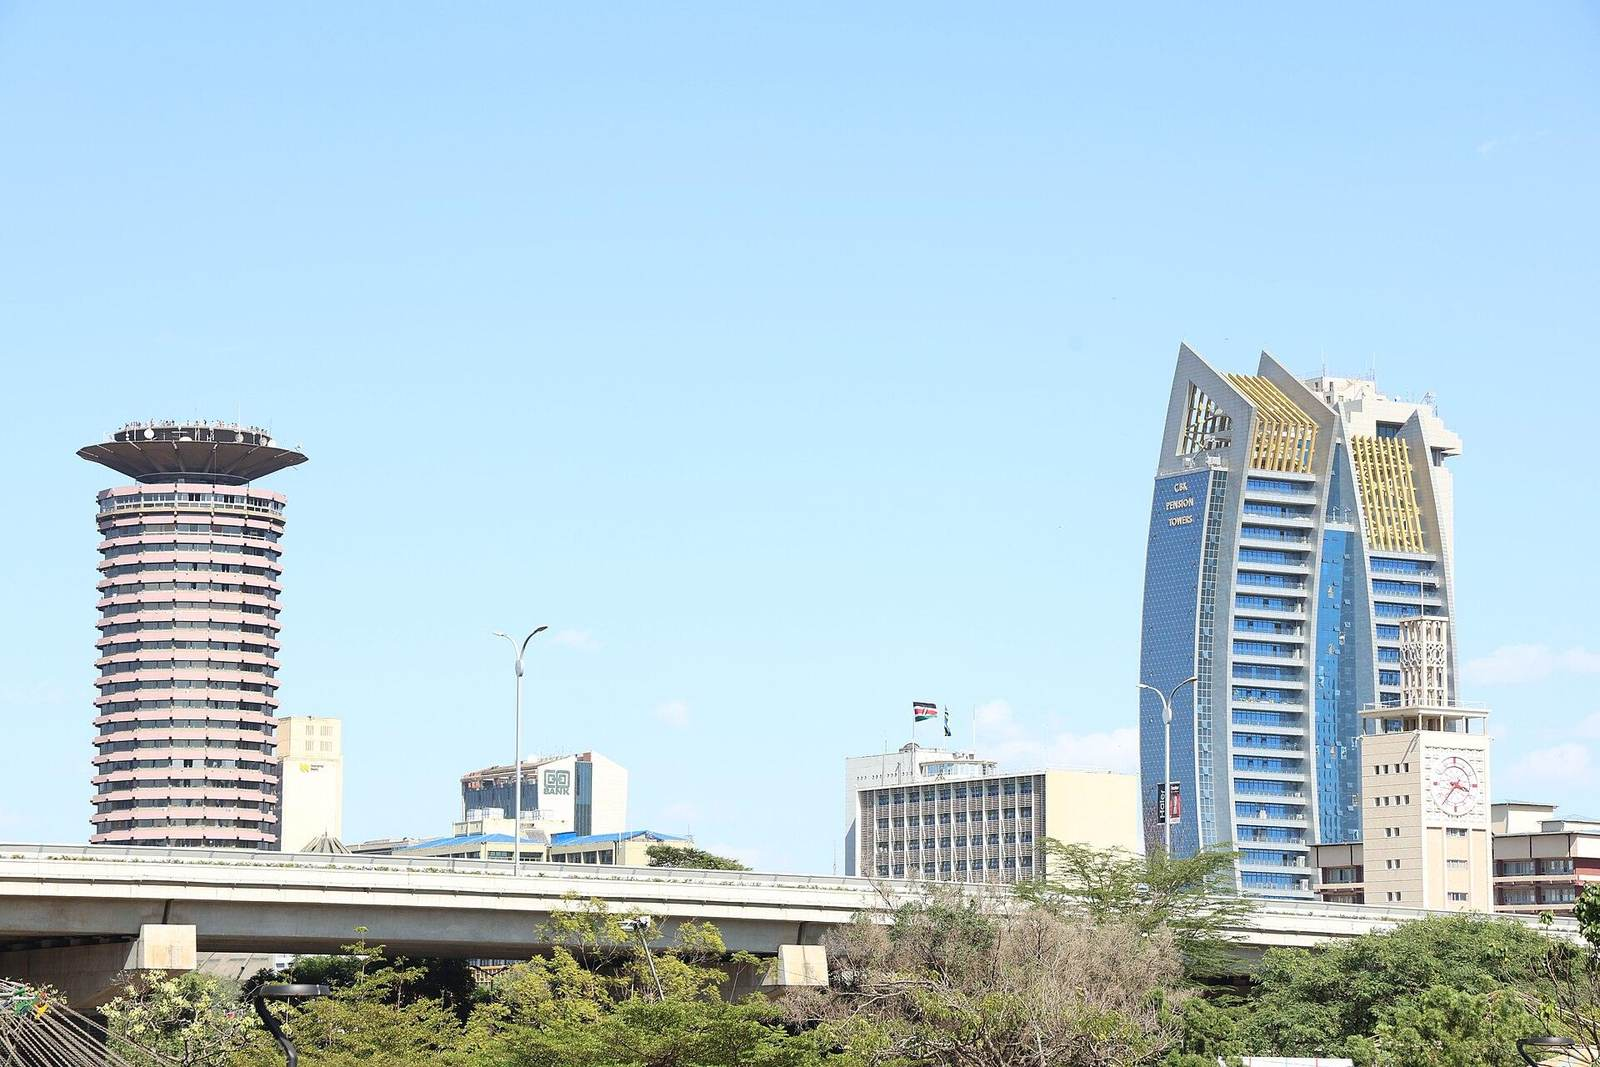
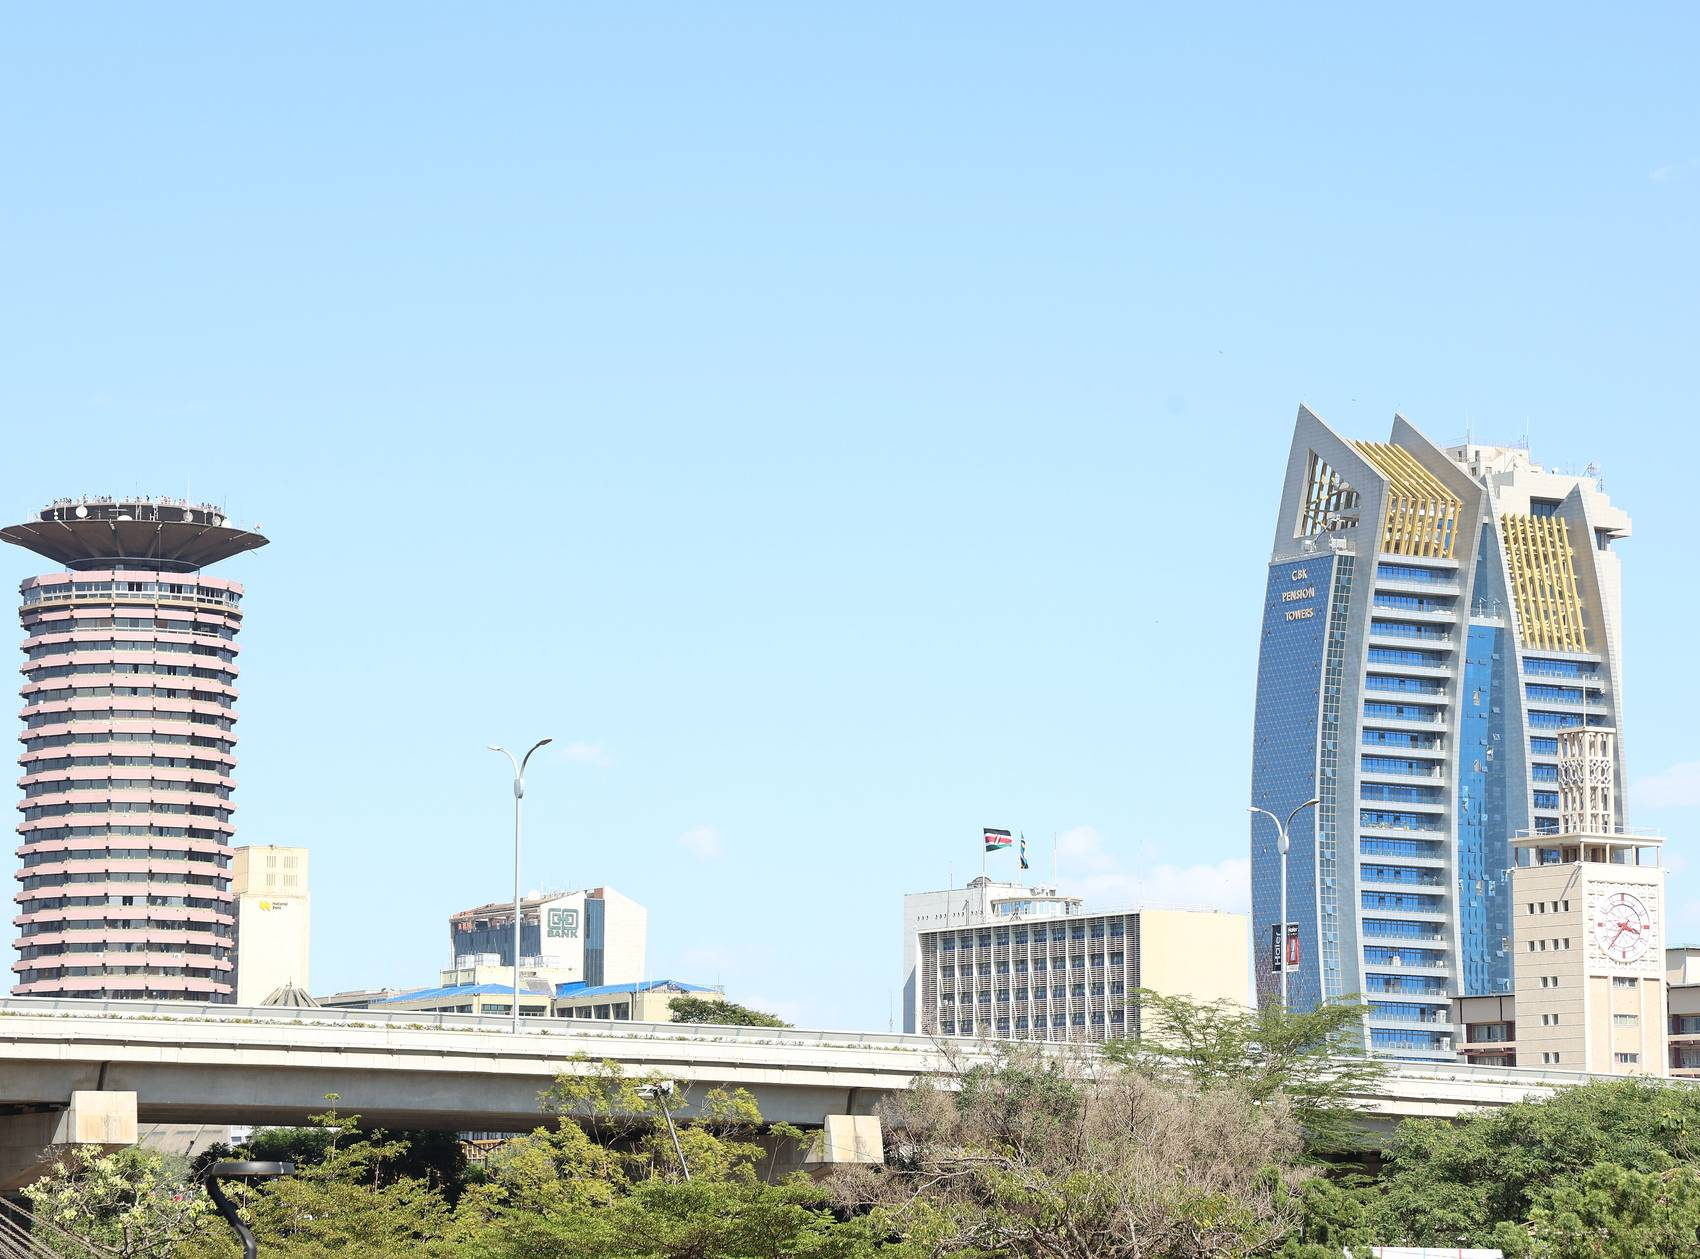
fix(landing): re-cut the photos to the aspect ratios their boxes actually use
Every photo was a 1.5 landscape crop, but none of the boxes it fills are 1.5,
so object-fit:cover was discarding large parts of each image:

  hero          source 1.50 -> box 1.89   20% cropped
  hero (orb)    source 1.50 -> box 1.00   34% cropped
  home banner   source 5.02 -> box 13.6   63% cropped, the worst
  login backdrop source 1.50 -> 1.73 desktop AND 0.46 portrait

Re-cut each from the 3840px Commons originals to match its real box:

  nairobi-hero.jpg      1800x947  (1.90) framed on the skyline band
  nairobi-hero-sm.jpg   900x692   (1.30) taller, so phones crop far less
  nairobi-login-bg.jpg  1700x1259 (1.35) near-square, survives both
                                          landscape and portrait viewports
  nairobi-home-banner   2400x369  (6.50) a true wide strip for the 165px card

Also nudged the hero anchor 72%/40% -> 68%/45% (the old value pushed the
focal point toward the edge once the wider cut landed) and corrected the
srcSet width hints, which advertised 960w/1920w for files that are 900/1800.

All four stay within the slow-network budget: 96-305 KB, progressive JPEG.

diff --git a/digit-ui-esbuild/products/pgr/src/pages/citizen/Landing/components/HeroSection.tsx b/digit-ui-esbuild/products/pgr/src/pages/citizen/Landing/components/HeroSection.tsx
@@ -93,12 +93,12 @@ export function HeroSection({ routes, imageUrl, imageSmallUrl, section }: HeroSe
           {imageUrl && (
             <img
               src={imageUrl}
-              srcSet={imageSmallUrl ? `${imageSmallUrl} 960w, ${imageUrl} 1920w` : undefined}
+              srcSet={imageSmallUrl ? `${imageSmallUrl} 900w, ${imageUrl} 1800w` : undefined}
               sizes="100vw"
               alt=""
               // @ts-expect-error fetchpriority is not in React 17's typings; browsers read the lowercase attribute.
               fetchpriority="high"
-              className="pgrl-drift absolute inset-0 h-full w-full object-cover object-[72%_40%]"
+              className="pgrl-drift absolute inset-0 h-full w-full object-cover object-[68%_45%]"
             />
           )}
           {/* Solid green on the text side, thinning to the right so the city
